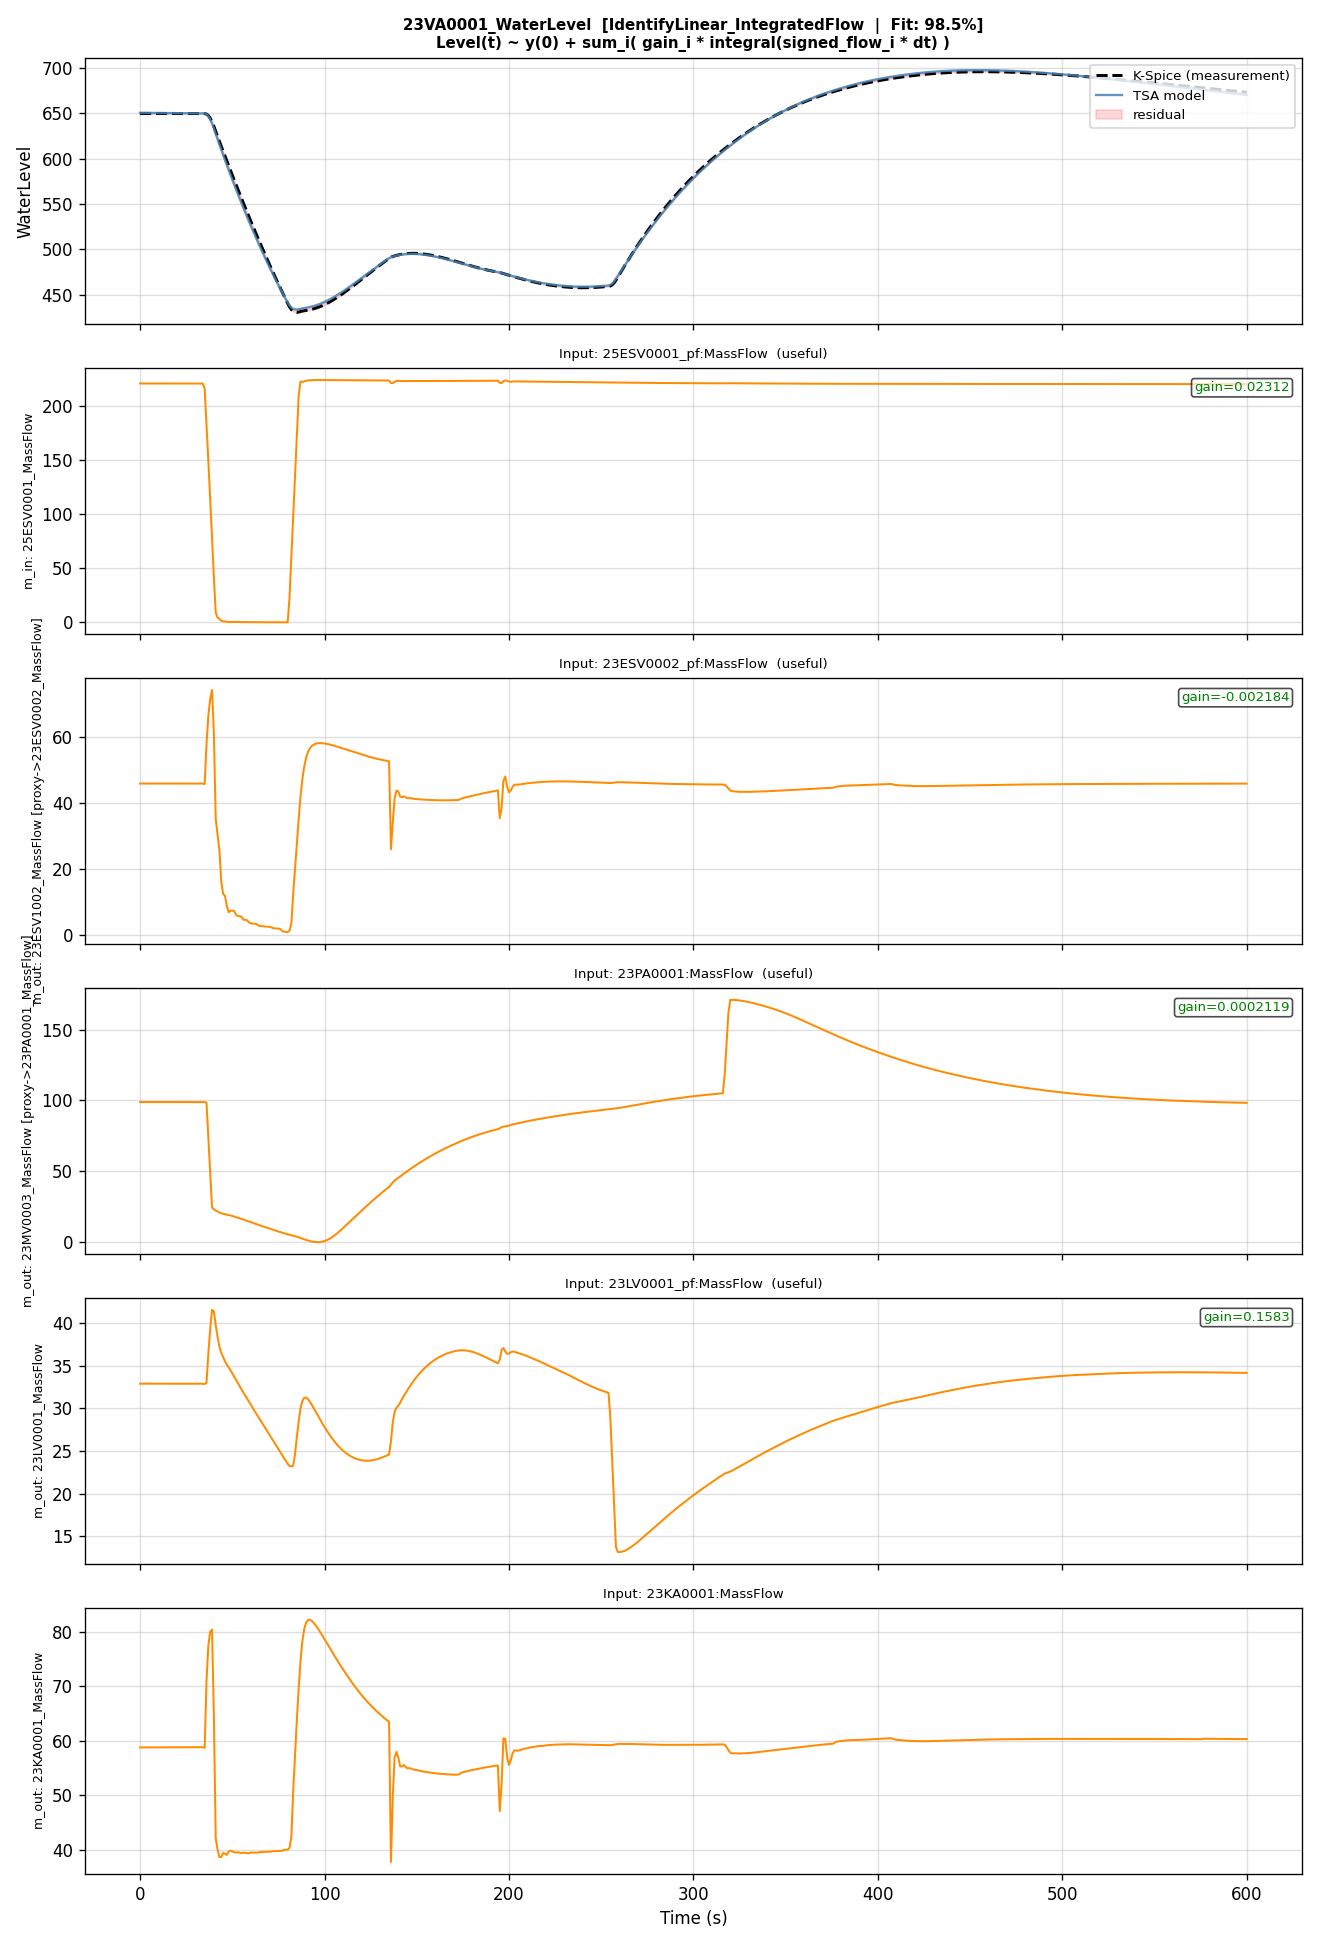
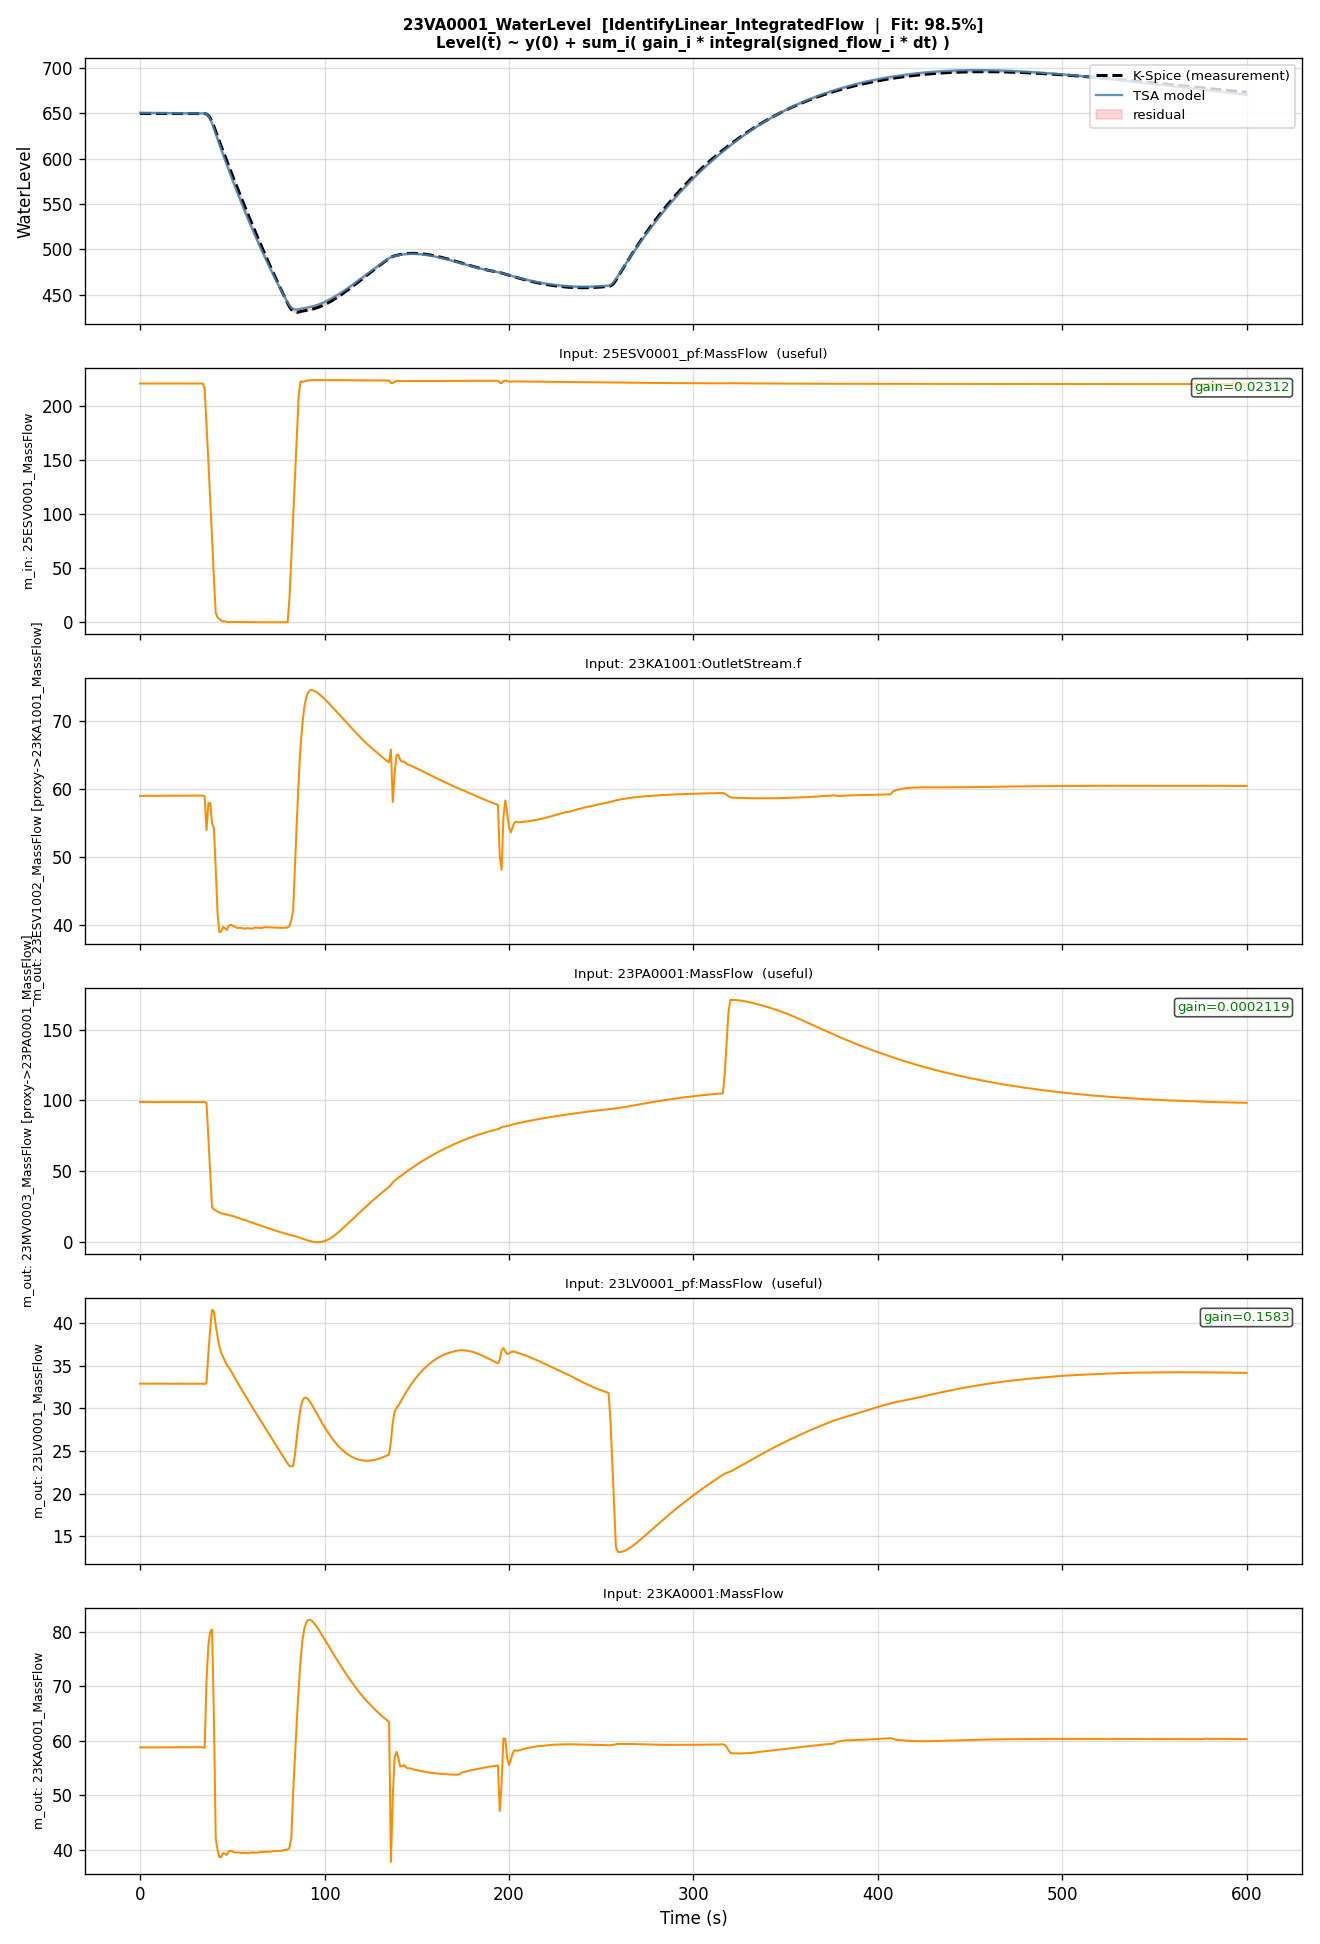
Readme fit score

diff --git a/README.md b/README.md
@@ -3,22 +3,40 @@
 Grey-box identification pipeline that converts a high-fidelity K-Spice plant
 simulation into a modular network of MISO surrogate models. Topology is
 extracted from K-Spice's `.mdl` / `.prm` model files and fused with a 1 Hz
-simulation CSV exported from K-Spice — ideally one containing setpoint
-changes and manual moves that excite the plant, so its dynamics can be
-observed (a flat steady-state CSV yields no information about time constants).
+simulation CSV exported from K-Spice. The CSV must contain setpoint changes
+and manual moves that excite the plant so its dynamics can be observed; a
+flat steady-state CSV yields no information about time constants.
 
-The numerical engine for first-order dynamic identification, PID identification,
-and OLS regression is [Equinor's TimeSeriesAnalysis](https://github.com/equinor/TimeSeriesAnalysis)
-library. On top of that this pipeline adds K-Spice topology integration and
-custom physics-guided models that TSA does not provide on its own:
+The numerical engine is [Equinor's TimeSeriesAnalysis](https://github.com/equinor/TimeSeriesAnalysis)
+library, which provides robust first-order dynamic identification, PID
+identification, and OLS regression. TSA is used directly for the components
+where standard linear identification is sufficient:
 
-- **Valves** — square-root pressure-drop law with fitted density factor
-- **Heat exchangers** — split gas-side / water-side identification with an
-  NTU-effectiveness fallback for unphysical OLS signs
-- **Inter-stage junctions** — synthetic mass-balance vessel for headers without
-  a physical accumulation volume
-- **Anti-surge controllers** — dual-mode PI with K-Spice tuning extraction and
-  effective-gain grid search
+- **Separator and tank pressure** dynamics
+- **Liquid level** integration
+- **PID controllers** (Kp, Ti recovery, with a gain-scale search fallback
+  for low-excitation data)
+- **Generic linear process states** that have no specialised physics
+
+On top of TSA the pipeline layers custom physics-guided models for the
+components where pure linear identification fails to capture the underlying
+behaviour. These still fit their parameters via OLS regression, but enforce
+a constrained structure that the linear identifiers cannot:
+
+- **Valves**: square-root pressure-drop law $\dot{m} = k \cdot C_v(u) \cdot \sqrt{P_{in} - P_{out}}$
+  with a fitted density-tuning factor.
+- **Heat exchangers**: split gas-side / water-side identification with an
+  NTU-effectiveness fallback when OLS produces unphysical signs (e.g.
+  cooling water that appears to heat the gas).
+- **Inter-stage junctions**: pipe headers where two compressor trains meet
+  but no physical separator vessel exists. A pipe junction without buffering
+  is mathematically unstable in closed-loop. The pipeline detects this case
+  from topology and treats the junction as a virtual mass-balance vessel,
+  applying the same $dP/dt = k \cdot (\dot{m}_{in} - \dot{m}_{out})$
+  equation a real separator would use so the closed-loop simulation has a
+  stable pressure node.
+- **Anti-surge controllers**: dual-mode PI with parameters read from the
+  K-Spice model file and refined via a 4D grid search.
 
 Each block is re-assembled into a custom topology-aware closed-loop simulator
 that runs without K-Spice.
@@ -165,8 +183,15 @@ After a full run you'll find:
   are resolved via BFS over the parsed wiring graph. Anti-surge valves are
   detected via the ASC-controller wiring (not a name pattern), so the same
   code works for plants with non-standard tag conventions.
-- The C# engine builds itself on first run via `dotnet run` — no manual build
-  step needed.
+- The C# engine builds itself on first run via `dotnet run`. No manual
+  build step is needed.
+- **Reading the Fit Score**: for tightly regulated process variables where
+  active PID control keeps the signal nearly flat, the variance-normalized
+  Fit Score becomes structurally over-sensitive to small steady-state
+  offsets and can return large negative numbers even when the trajectory
+  tracks the truth visually. Always cross-check the per-model validation
+  plots in `output/validation_plots*/` before judging a model from its
+  numeric score alone.
 
 ## Credits
 